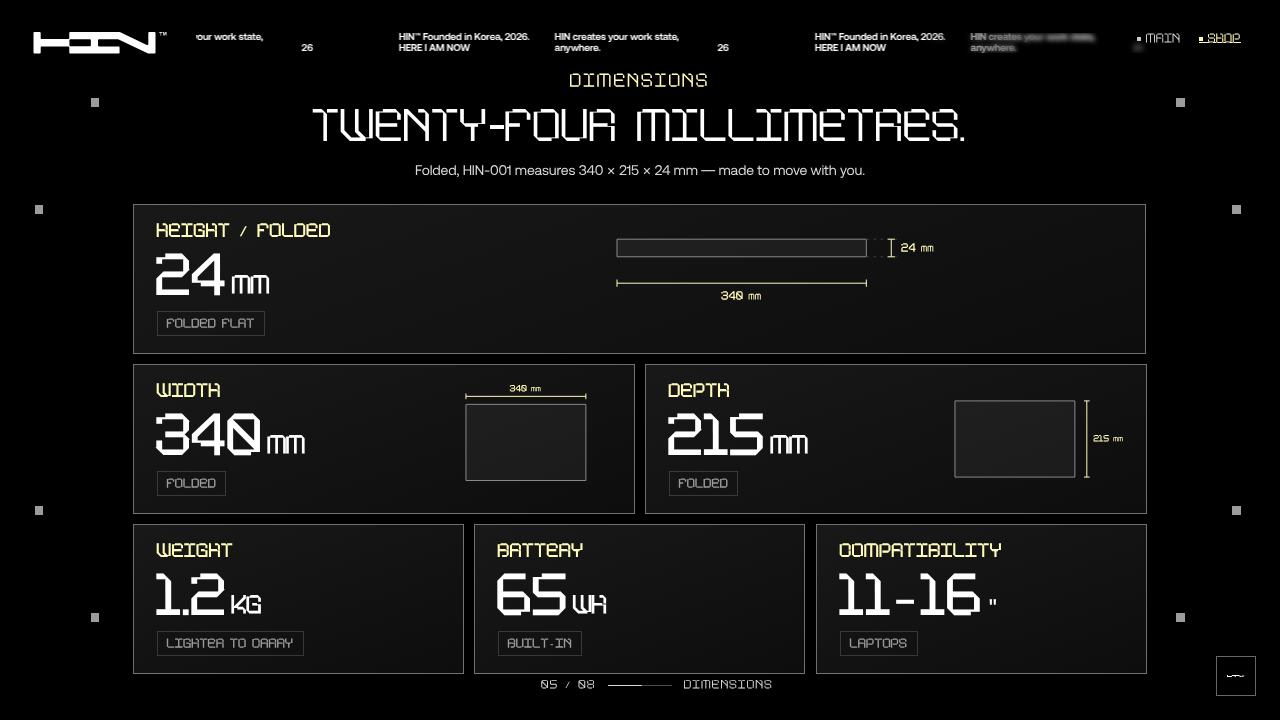
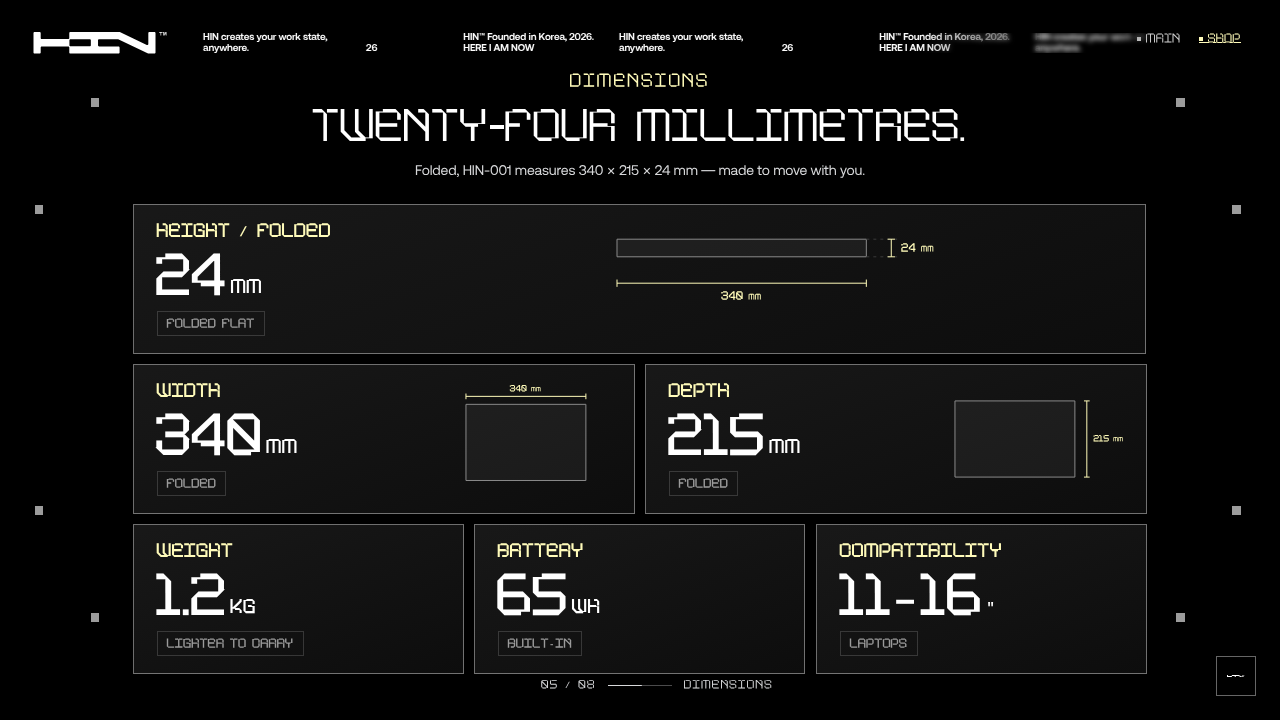
05 dimensions: white units smaller with wider tracking
Claude-Session: https://claude.ai/code/session_01877NMfYCzRSJ6EX6AActtj

diff --git a/index.html b/index.html
@@ -2799,7 +2799,7 @@ html[data-view="shop"] #navShop span, html[data-view="shop"] #navShop .nav-sq{co
 #pdPage .hxf-slide.hxd .hxf-txt p{text-shadow:0 0 10px rgba(0,0,0,.55), 0 1px 2px rgba(0,0,0,.5);}
 /* 05 dimensions: chips smaller than the yellow labels, units in HIN Type, yellow MM at ~2/3 of the digits */
 #pdPage #hpd-numbers .hpd-chip{font-size:clamp(9px,.7vw,11px) !important; padding:6px 9px !important;}
-#pdPage #hpd-numbers .hpd-num .hpd-v small{font-family:var(--pixel) !important; font-weight:600 !important; text-transform:uppercase; letter-spacing:.06em !important;} /* HIN Type has capitals only — same glyphs as the yellow MM */
+#pdPage #hpd-numbers .hpd-num .hpd-v small{font-family:var(--pixel) !important; font-weight:600 !important; text-transform:uppercase; letter-spacing:.16em !important; font-size:.34em !important;} /* HIN Type has capitals only — same glyphs as the yellow MM */
 #pdPage #hpd-numbers .hpd-dg .hpd-mm{font-size:.67em;}
 
 /* Work, unfolded: home-manifesto layout — render centred, heading left, short copy + Buy now right */
